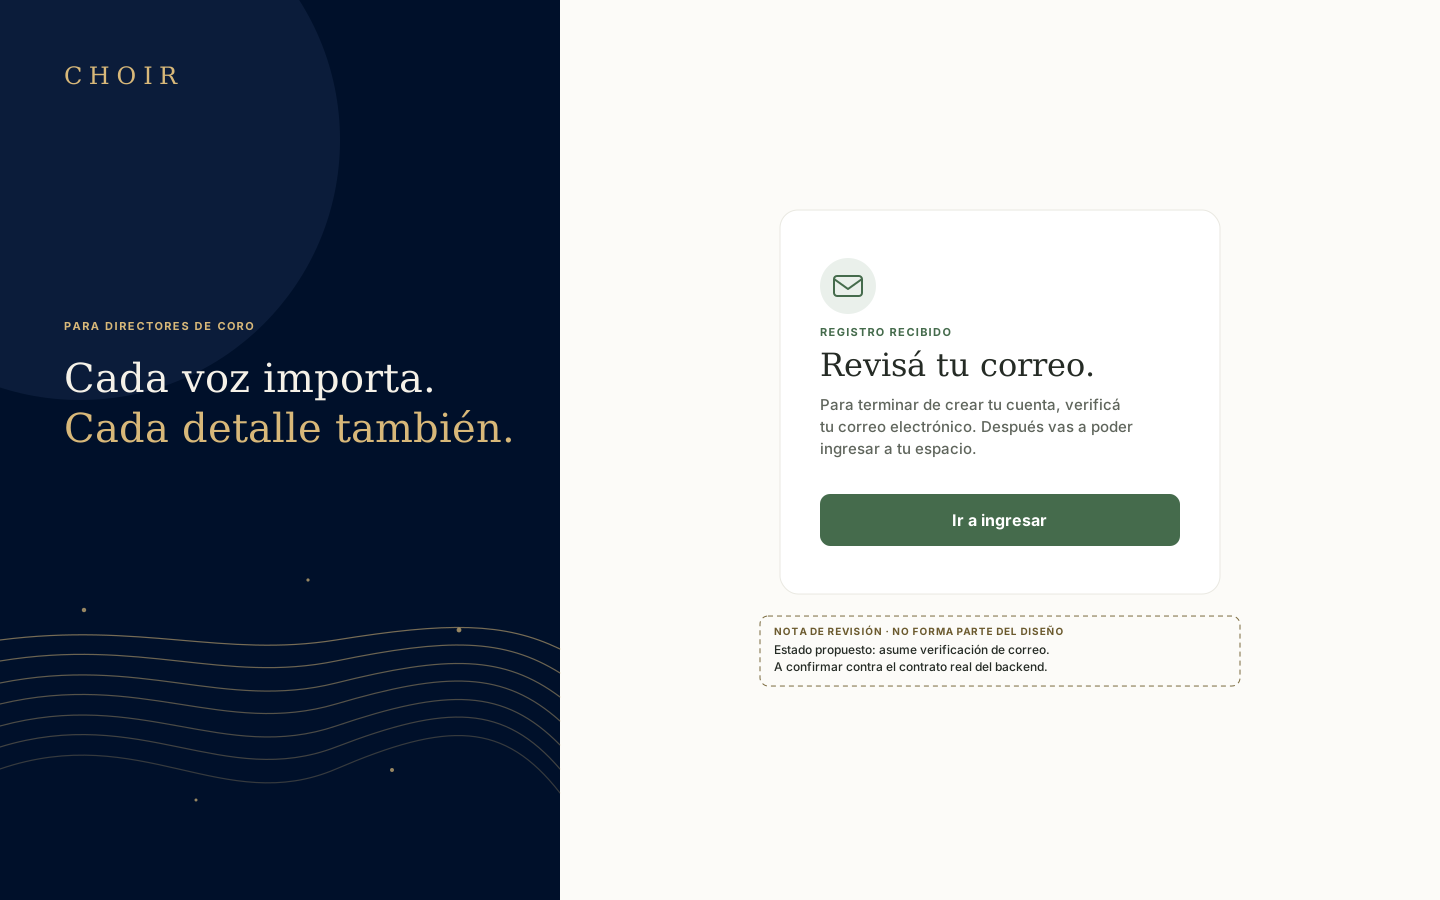
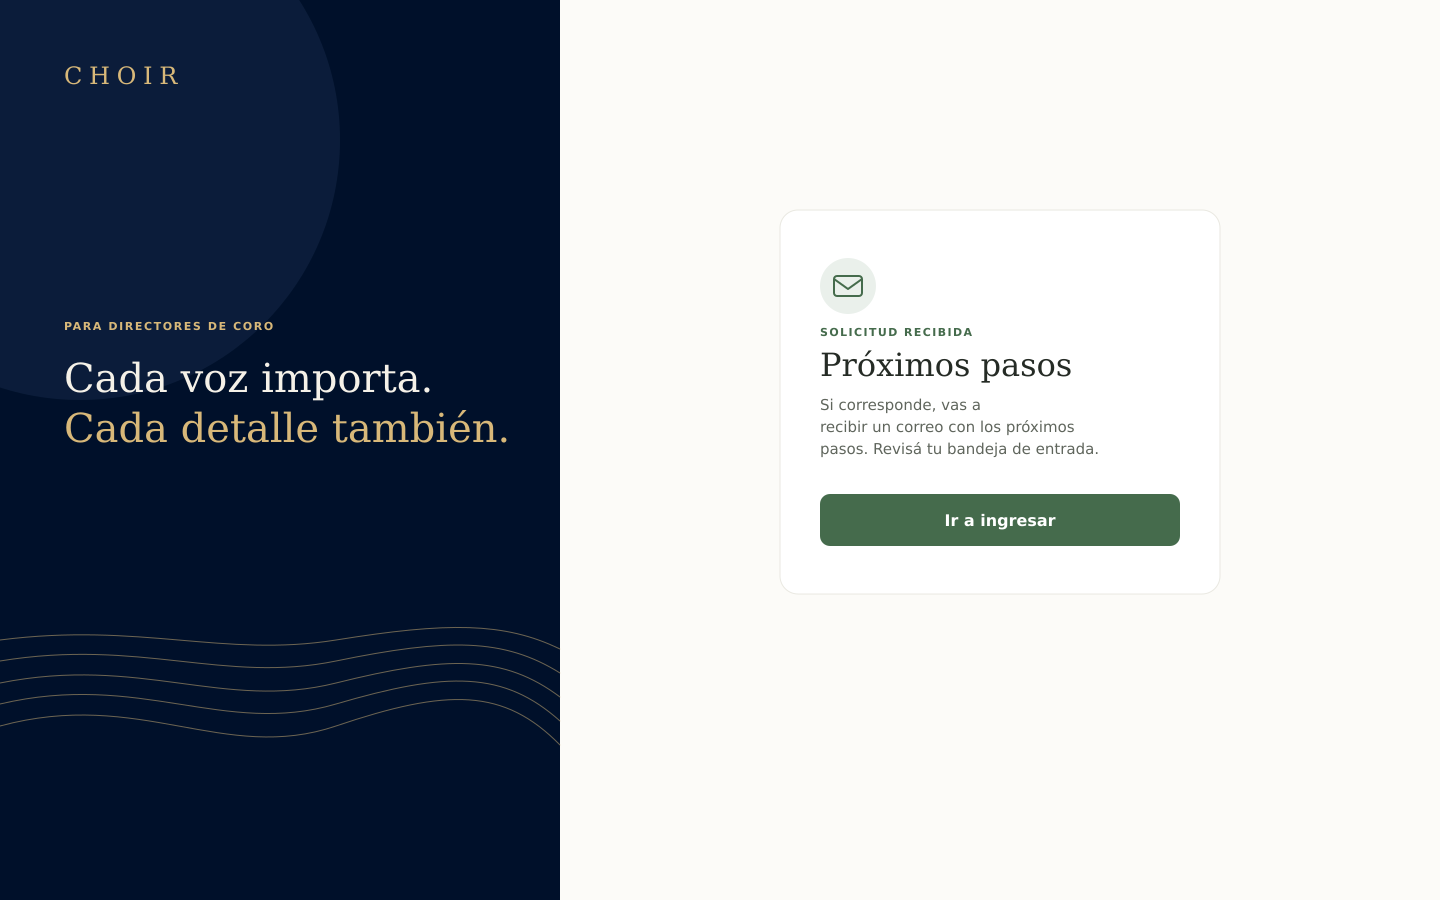
docs(CHOIR-124): align registration success proposals

diff --git a/docs/design-backlog.md b/docs/design-backlog.md
@@ -69,64 +69,79 @@ a los flujos de autenticación, respetando la implementación existente y el
 contrato de registro confirmado en backend.
 
 Estado actual:
-- Ingresar ya dispone de un formulario funcional en
-  `src/app/auth/login.page.ts`. El trabajo previsto es visual y de
-  accesibilidad; no debe reemplazar ni duplicar el flujo de autenticación.
-- Registro todavía es un placeholder informativo en `src/app/pages.ts`.
-  El backend dispone de `POST /api/auth/register` y
-  `POST /api/auth/verify-email`, pero el registro depende de configuración
-  y de la disponibilidad del servicio de envío de correo.
+- Ingresar dispone de un formulario funcional en
+  `src/app/auth/login.page.ts`. Su trabajo previsto es visual y de
+  accesibilidad; no debe reemplazar ni duplicar el flujo existente.
+- Registro continúa siendo un placeholder informativo en
+  `src/app/pages.ts`.
+- El backend dispone de `POST /api/auth/register` y
+  `POST /api/auth/verify-email`. La disponibilidad del registro depende
+  de configuración y del servicio de envío de correo.
 - El contrato backend fue revisado y está documentado en
   `design-proposals.md`, sección 2.
 
+#### Etapa A — Diseño visual
+
 Alcance:
 - Reorganización visual del formulario existente de Ingresar.
-- Diseño e implementación de la pantalla de Registro conforme al contrato
-  backend confirmado.
-- Campos de Registro: nombre para mostrar, correo y contraseña.
-- Respeto de los límites confirmados: nombre hasta 160 caracteres,
-  correo hasta 254 caracteres y contraseña entre 12 y 200 caracteres.
-- Integración con la protección CSRF existente: obtención del token,
-  conservación de la cookie de sesión y envío del header `X-CSRF-TOKEN`.
-- Presentación de los estados de carga, error, indisponibilidad y respuesta
-  genérica de aceptación.
-- Diseño del mensaje posterior al registro sin revelar si el correo ya
-  existía ni afirmar que el envío se completó en todos los casos.
-- Adaptación responsive y accesibilidad de ambos formularios.
+- Definición visual de Registro para escritorio y móvil.
+- Definición de estados de carga, error, indisponibilidad y aceptación.
 - Consistencia visual entre Ingresar y Registro.
+- Revisión de etiquetas, foco, contraste y accesibilidad.
 
 Criterios de aceptación:
 - Ingresar conserva sus campos, validaciones, autenticación y mensajes
   funcionales actuales.
 - La propuesta visual de Ingresar no introduce nuevas operaciones.
-- Registro envía los campos `displayName`, `email` y `password` según
-  el contrato existente.
-- La contraseña respeta el mínimo de 12 y el máximo de 200 caracteres;
-  no se agregan reglas de composición no confirmadas.
-- El formulario gestiona correctamente la protección CSRF existente.
-- La respuesta HTTP 202 presenta un mensaje neutral y no revela si la
-  dirección ya estaba registrada.
-- La respuesta HTTP 503 se presenta como indisponibilidad del registro,
-  sin atribuir el problema a los datos ingresados.
-- La interfaz no ofrece reenvío de verificación, porque no existe un
-  endpoint confirmado para esa operación.
-- La interfaz no inicia sesión automáticamente después del registro.
-- La experiencia no afirma que el correo fue enviado efectivamente
-  en todos los casos.
+- La propuesta de Registro utiliza los campos confirmados:
+  nombre para mostrar, correo y contraseña.
+- Los estados visuales no afirman que se creó una cuenta ni que se envió
+  un correo cuando la respuesta del backend no lo garantiza.
 - Ambos formularios tienen etiquetas visibles, foco perceptible y errores
   comprensibles.
-- La pantalla funciona en móvil sin desplazamiento horizontal.
-- Se respetan los contratos y validaciones existentes.
+- Las propuestas funcionan en móvil sin desplazamiento horizontal.
 
-Dependencias:
+#### Etapa B — Integración funcional de Registro
+
+Esta etapa no debe comenzar hasta resolver las dependencias indicadas abajo.
+
+Alcance:
+- Implementar el formulario con `displayName`, `email` y `password`.
+- Respetar los límites confirmados: nombre hasta 160 caracteres,
+  correo hasta 254 caracteres y contraseña entre 12 y 200 caracteres.
+- Integrar la protección CSRF existente: obtener el token, conservar
+  la cookie de sesión y enviar el header `X-CSRF-TOKEN`.
+- Gestionar la respuesta HTTP 202 con un mensaje neutral.
+- Gestionar HTTP 503 como indisponibilidad del registro.
+- Integrar la verificación de correo únicamente cuando esté confirmado
+  el destino frontend del enlace.
+- Mantener el comportamiento responsive y accesible.
+
+Criterios de aceptación:
+- El request utiliza los campos y límites del contrato existente.
+- No se agregan reglas de composición de contraseña no confirmadas.
+- La respuesta HTTP 202 no revela si la dirección ya estaba registrada.
+- La interfaz no afirma que el correo fue enviado efectivamente
+  en todos los casos.
+- La respuesta HTTP 503 se presenta como indisponibilidad del registro,
+  sin atribuir el problema a los datos ingresados.
+- No se ofrece reenvío de verificación porque no existe un endpoint
+  confirmado para esa operación.
+- No se inicia sesión automáticamente después del registro.
+- Se respeta la protección CSRF existente.
+- Los errores y estados son accesibles y comprensibles.
+
+Dependencias para la Etapa B:
 - DS-01.
 - Revisión de los componentes y servicios de autenticación existentes.
 - Confirmar la configuración efectiva de Registro en los entornos donde
   vaya a habilitarse.
+- Confirmar la disponibilidad del servicio de envío de correo.
 - Confirmar la ruta frontend de destino del enlace de verificación.
 - Verificar la integración CSRF con el cliente HTTP existente.
-- No iniciar la implementación del recorrido completo de Registro hasta
-  confirmar la configuración y el destino frontend de verificación.
+
+La Etapa A puede avanzar sin implementar el recorrido funcional de Registro.
+La Etapa B queda bloqueada hasta confirmar las dependencias anteriores.
 
 Fuera de alcance:
 - Nuevos proveedores de autenticación.
@@ -372,12 +387,12 @@ Fuera de alcance:
 Secuencia de referencia:
 
 1. DS-01: fundamentos visuales.
-2. DS-02 y DS-03: autenticación y conciertos, respetando las dependencias
-   específicas de configuración y verificación de Registro.
-3. DS-04 y DS-05: formaciones y gestión del coro.
-4. DS-06 y DS-07: transiciones e Inicio.
-5. DS-08: consolidación de estados.
-6. DS-09: validación integral.
+2. DS-02 Etapa A y DS-03: diseño visual de autenticación y conciertos.
+3. DS-02 Etapa B: integración de Registro, una vez resueltas sus dependencias.
+4. DS-04 y DS-05: formaciones y gestión del coro.
+5. DS-06 y DS-07: transiciones e Inicio.
+6. DS-08: consolidación de estados.
+7. DS-09: validación integral.
 
 Esta secuencia es orientativa. Las dependencias reales deben verificarse
 contra Jira y los componentes compartidos antes de asignar trabajo paralelo.
@@ -387,6 +402,8 @@ contra Jira y los componentes compartidos antes de asignar trabajo paralelo.
 - DS-01 es responsable de los patrones compartidos.
 - Cada módulo debe tener un responsable de implementación.
 - Las tareas de DS-02 a DS-07 no deben modificar componentes ajenos a su módulo.
+- DS-02 debe mantener separadas las tareas visuales y las de integración
+  funcional de Registro.
 - DS-08 debe reutilizar los patrones definidos, no crear variantes aisladas.
 - DS-09 valida y reporta hallazgos; las correcciones se implementan en tickets
   específicos.
